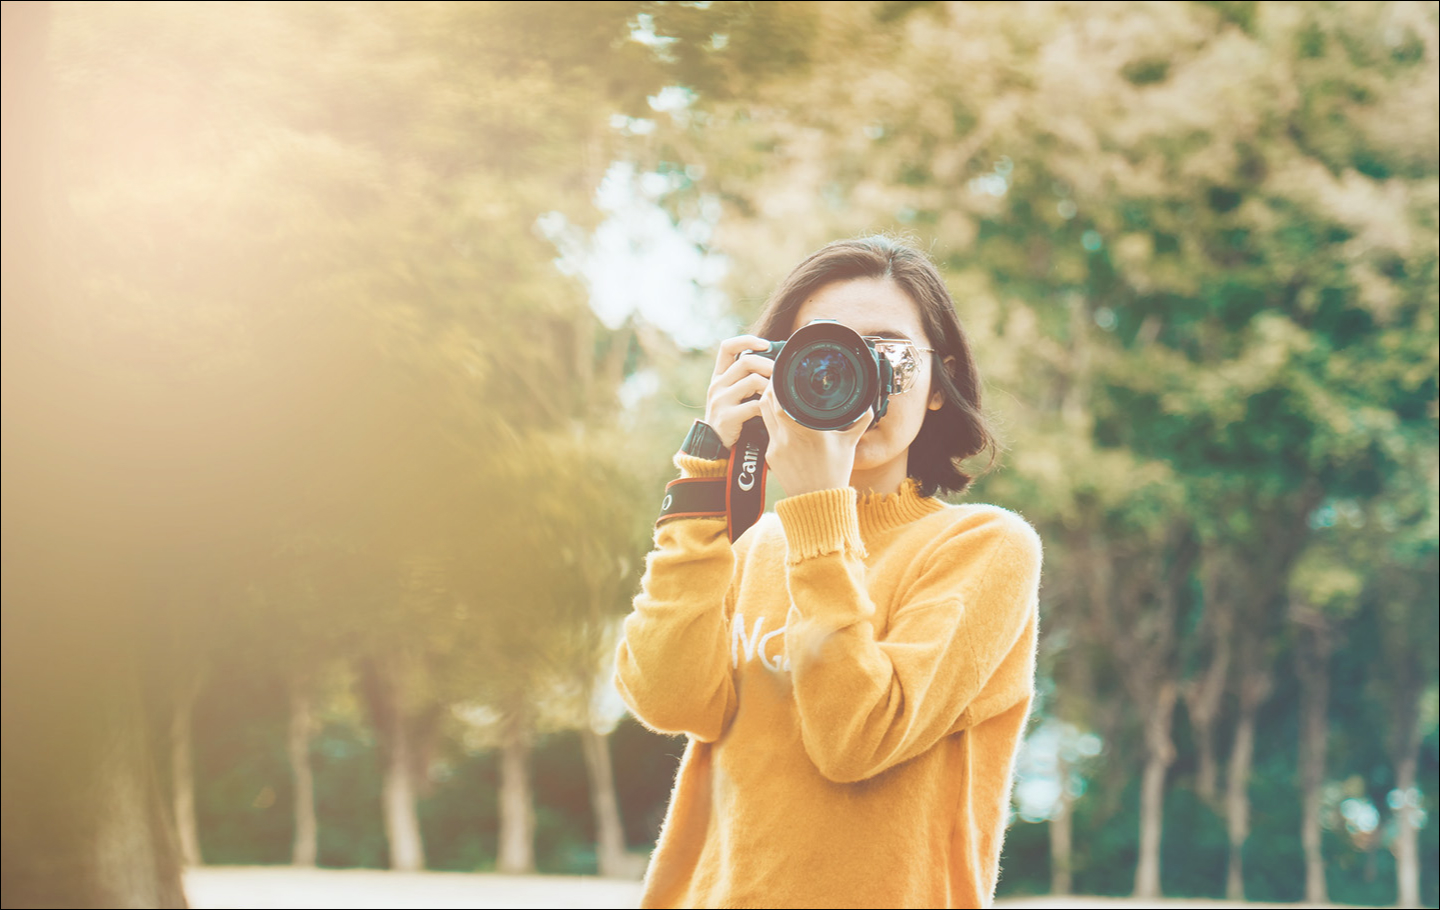
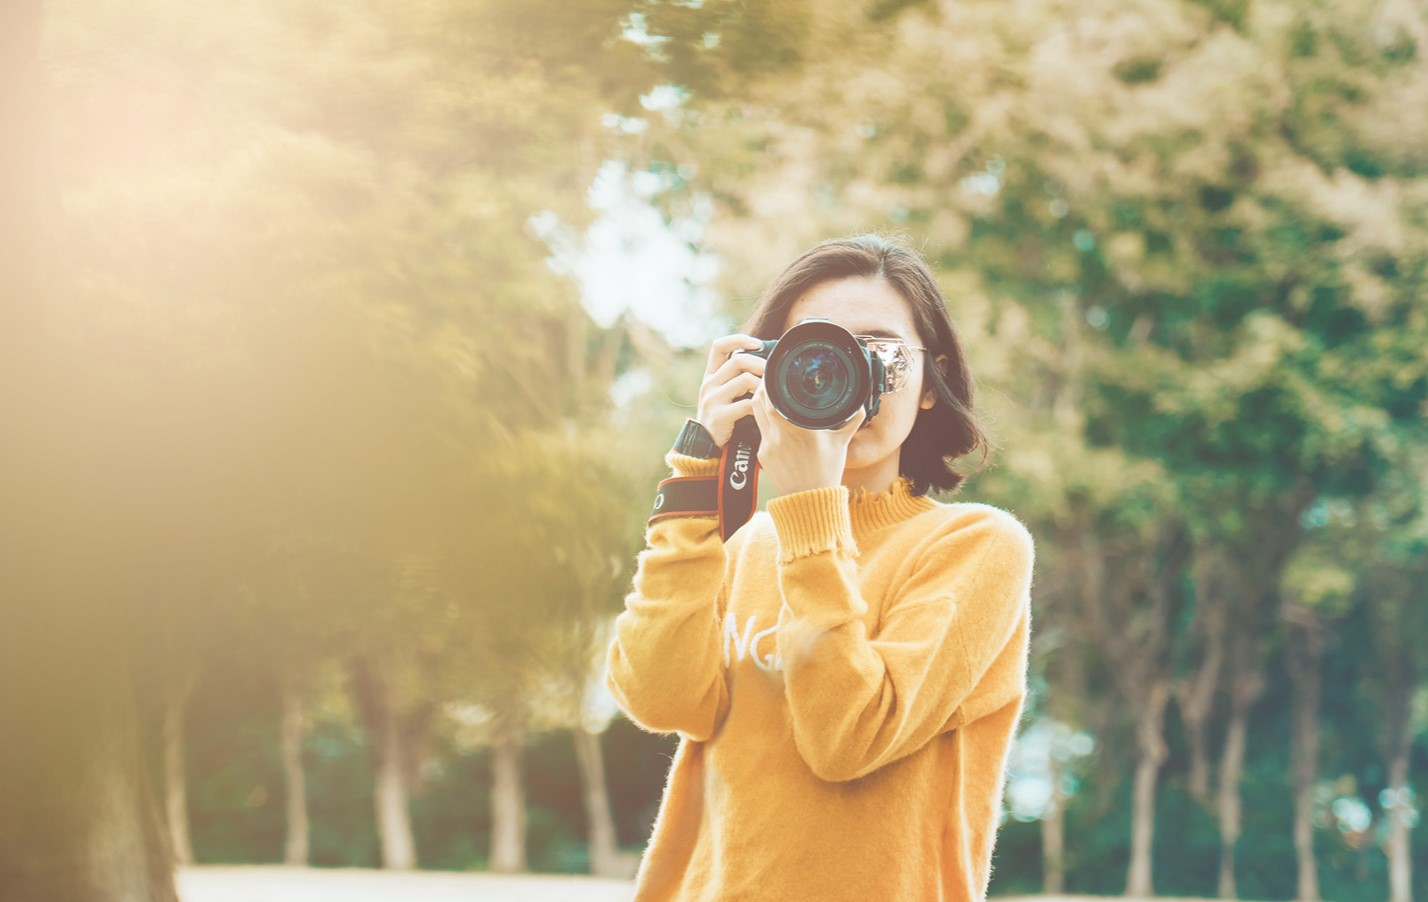
fix: js switch button, background

diff --git a/src/js/index.js b/src/js/index.js
@@ -110,13 +110,8 @@ fullScreen.addEventListener('click', () => {
 
 
 //light-night theme
-//
-// const switchstyle = ['html'];
-// switchstyle.forEach(elem => elem.classList.remove('light-theme'))
-// event.target.classList.add('light-theme');
-
-const themeBtn = document.querySelector('.switch-mode');
-const allElements = ['html', '.button__portfolio',];
+const themeBtn = document.querySelectorAll('.switch-mode');
+const allElements = ['html', '.button__portfolio',".footer__github"];
 
 function theme() {
     allElements.forEach((elem) => {
@@ -127,31 +122,37 @@ function theme() {
     })
 }
 
-themeBtn.addEventListener('click', theme);
-
-
-//header
-function headerbg(){
+function headerBg(){
     const headerwrap = document.querySelector('.header__wrapper');
     headerwrap.classList.toggle('header-light-theme');
 }
 
-themeBtn.addEventListener('click', headerbg);
-//hero
-function herobg(){
+function heroBg(){
     const headerwrap = document.querySelector('.hero__wrapper');
     headerwrap.classList.toggle('hero-light-theme');
 }
 
-themeBtn.addEventListener('click', herobg);
-//contancts bg
-function contactsbg(){
+function contactsBg(){
     const headerwrap = document.querySelector('.contacts__wrapper');
     headerwrap.classList.toggle('contacts-light-theme');
 }
 
-themeBtn.addEventListener('click', contactsbg);
+function allInOne (){
+    theme();
+    headerBg();
+    heroBg();
+    contactsBg();
+    // hider();
+}
 
+themeBtn.forEach(elem => elem.addEventListener('click', allInOne));
+themeBtn.forEach(elem => elem.addEventListener('click', hider));
+// themeBtn.addEventListener('click', allInOne);;
+
+function hider(event) {
+    themeBtn.forEach((element) => element.classList.remove('hide'));
+    event.target.classList.add('hide');
+}
 
 
 

diff --git a/src/sass/style.css b/src/sass/style.css
@@ -526,7 +526,24 @@ h4 {
 
 .switch-mode {
   border: none;
-  background: inherit;
+  margin-left: 10px;
+}
+
+.hide {
+  opacity: 0;
+  display: none;
+}
+
+.daylight {
+  background: url(../../assets/svg/carbon_sun.svg) no-repeat center;
+  height: 45px;
+  width: 45px;
+}
+
+.night {
+  background: url(../../assets/svg/night.svg) no-repeat center;
+  height: 45px;
+  width: 45px;
 }
 
 .hamburger__line, .hamburger::after, .hamburger::before {
@@ -796,6 +813,11 @@ input[type=range]::-moz-range-thumb {
     padding: 0 60px;
   }
 }
+@media (max-width: 414px) {
+  .wrapper {
+    padding: 0 20px;
+  }
+}
 
 @media (max-width: 768px) {
   .video__wrapper {
@@ -1060,7 +1082,7 @@ input[type=range]::-moz-range-thumb {
 }
 
 .portfolio-item {
-  width: calc(100% + 109px);
+  width: calc(100% + 22px);
 }
 
 .price__item {
@@ -1253,7 +1275,21 @@ input[type=range]::-moz-range-thumb {
 }
 
 .header-light-theme {
-  background: url("../../assets/img/bg-light.jpg") no-repeat center 0;
+  background: url("../../assets/img/bg-light.png") no-repeat center 0;
+}
+@media (max-width: 768px) {
+  .header-light-theme {
+    padding-top: 20px;
+    padding-bottom: 20px;
+    background-position: -5px -30px;
+    background-size: auto 620px;
+  }
+}
+@media (max-width: 414px) {
+  .header-light-theme {
+    background-size: auto 518px;
+    background-position: -175px -30px;
+  }
 }
 
 .hero-light-theme {

diff --git a/index.html b/index.html
@@ -39,12 +39,8 @@
             </span>
         </div>
         <div class="mode">
-            <button class="switch-mode">
-                <img class="daylight" src="./assets/svg/carbon_sun.svg" alt="light">
-            </button>
-            <button class="switch-mode">
-                <img class='night' src="./assets/svg/night.svg" alt="night">
-            </button>
+            <button class="switch-mode daylight "></button>
+            <button class="switch-mode night hide"></button>
         </div>
     </div>
 </header>

diff --git a/src/sass/layouts/_light.scss b/src/sass/layouts/_light.scss
@@ -8,7 +8,20 @@
 }
 
 .header-light-theme{
-  background: url('../../assets/img/bg-light.jpg') no-repeat center 0;
+  background: url('../../assets/img/bg-light.png') no-repeat center 0;
+  @include media-tablet{
+    padding-top: 20px;
+    padding-bottom: 20px;
+    background-position: -5px -30px;
+    background-size: auto 620px;
+  }
+  @include mobile-big-width{
+    background-size: auto 518px;
+    background-position: -175px -30px;
+  }
+
+
+
 }
 
 .hero-light-theme{

diff --git a/src/sass/base/_button.scss b/src/sass/base/_button.scss
@@ -36,6 +36,22 @@
 
 .switch-mode{
   border: none;
-  background: inherit;
+  margin-left: 10px;
+  //background: inherit;
 }
 
+.hide{
+  opacity: 0;
+  display: none;
+}
+.daylight{
+  background: url(../../assets/svg/carbon_sun.svg)  no-repeat center;
+  height: 45px;
+  width: 45px;
+
+}
+.night{
+  background: url(../../assets/svg/night.svg) no-repeat center;
+  height: 45px;
+  width: 45px;
+}

diff --git a/src/sass/layouts/_wrapper.scss b/src/sass/layouts/_wrapper.scss
@@ -8,7 +8,9 @@
   @include media-tablet{
     padding: 0 60px;
   }
-
+  @include mobile-big-width{
+    padding: 0 20px;
+  }
 }
 .video__wrapper{
   @include media-tablet{

diff --git a/src/sass/components/_portfolio.scss b/src/sass/components/_portfolio.scss
@@ -3,5 +3,6 @@
 }
 
 .portfolio-item{
-  width: calc(100% + 109px);
+  //width: calc(100% + 109px);
+  width: calc(100% + 22px);
 }
